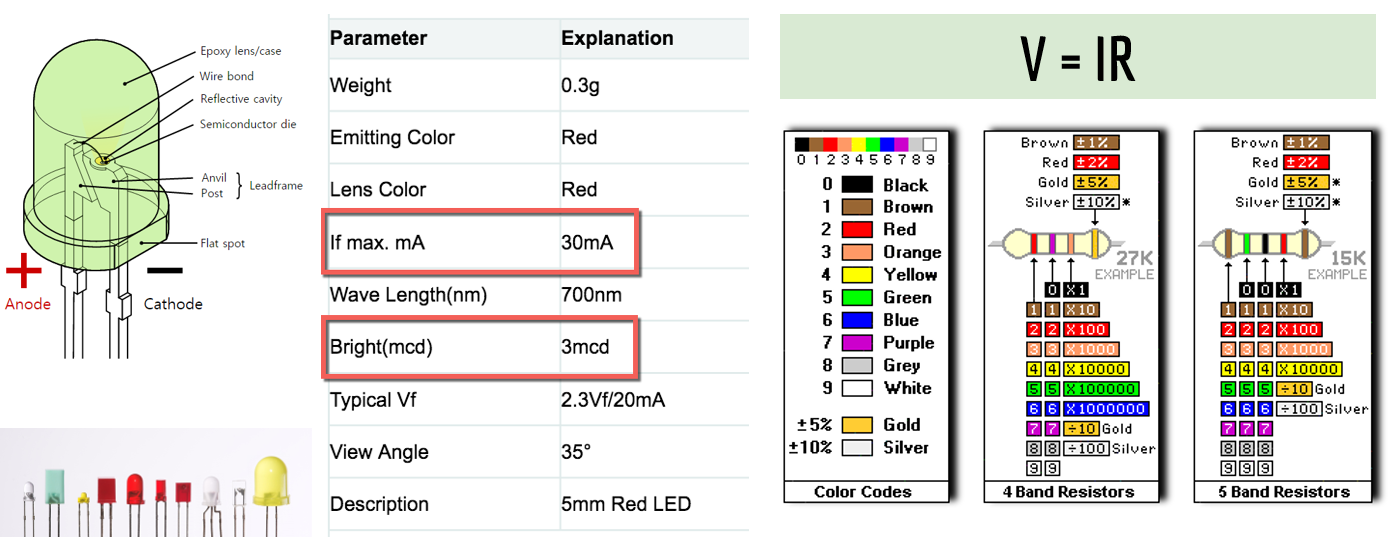
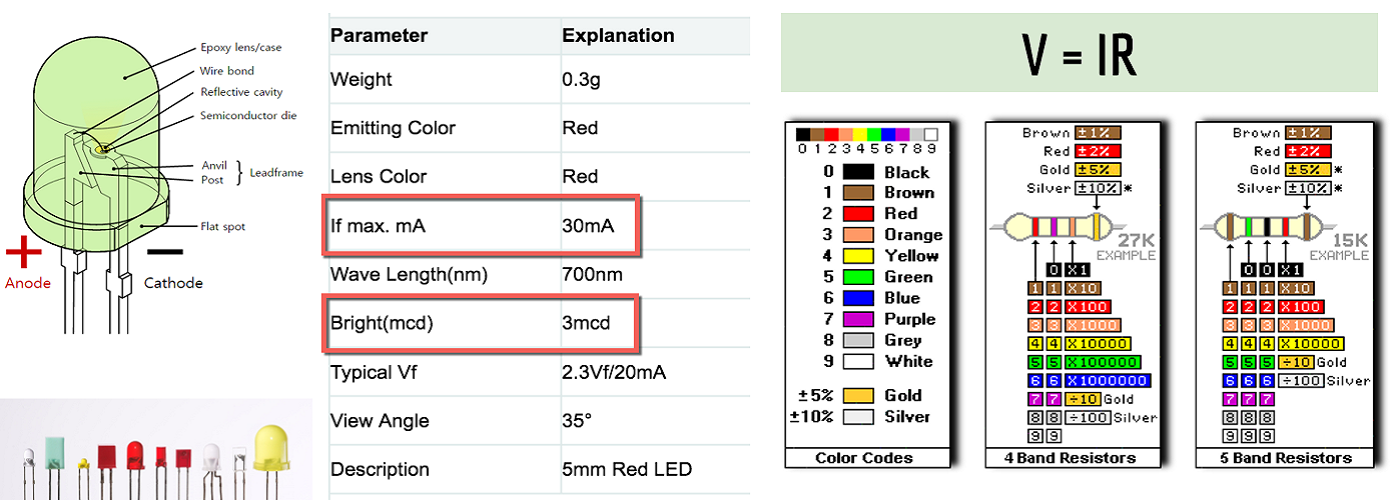
사진 크기 변견

diff --git a/정과프/0001_Pysical_Computing/pysical_computing.md b/정과프/0001_Pysical_Computing/pysical_computing.md
@@ -14,14 +14,11 @@
 - 기능을 설정하고 정해진 일을 수행하도록 프로그래밍 되어 동작
 
 ![micro_controller1](./pic/micro_controller1.png)
- <img_src="./pic/micro_controller1.png"> </img_src>
 ![micro_controller1](./pic/micro_controller2.png)
- <img_src="./pic/micro_controller2.png"> </img>
 
 ## 3.저항계산
 - 옴의 법칙
 ![micro_controller1](./pic/Resistance.png)
- <img="./pic/Resistance.png"> </img>
 
 ``` 
 R = V/I 
